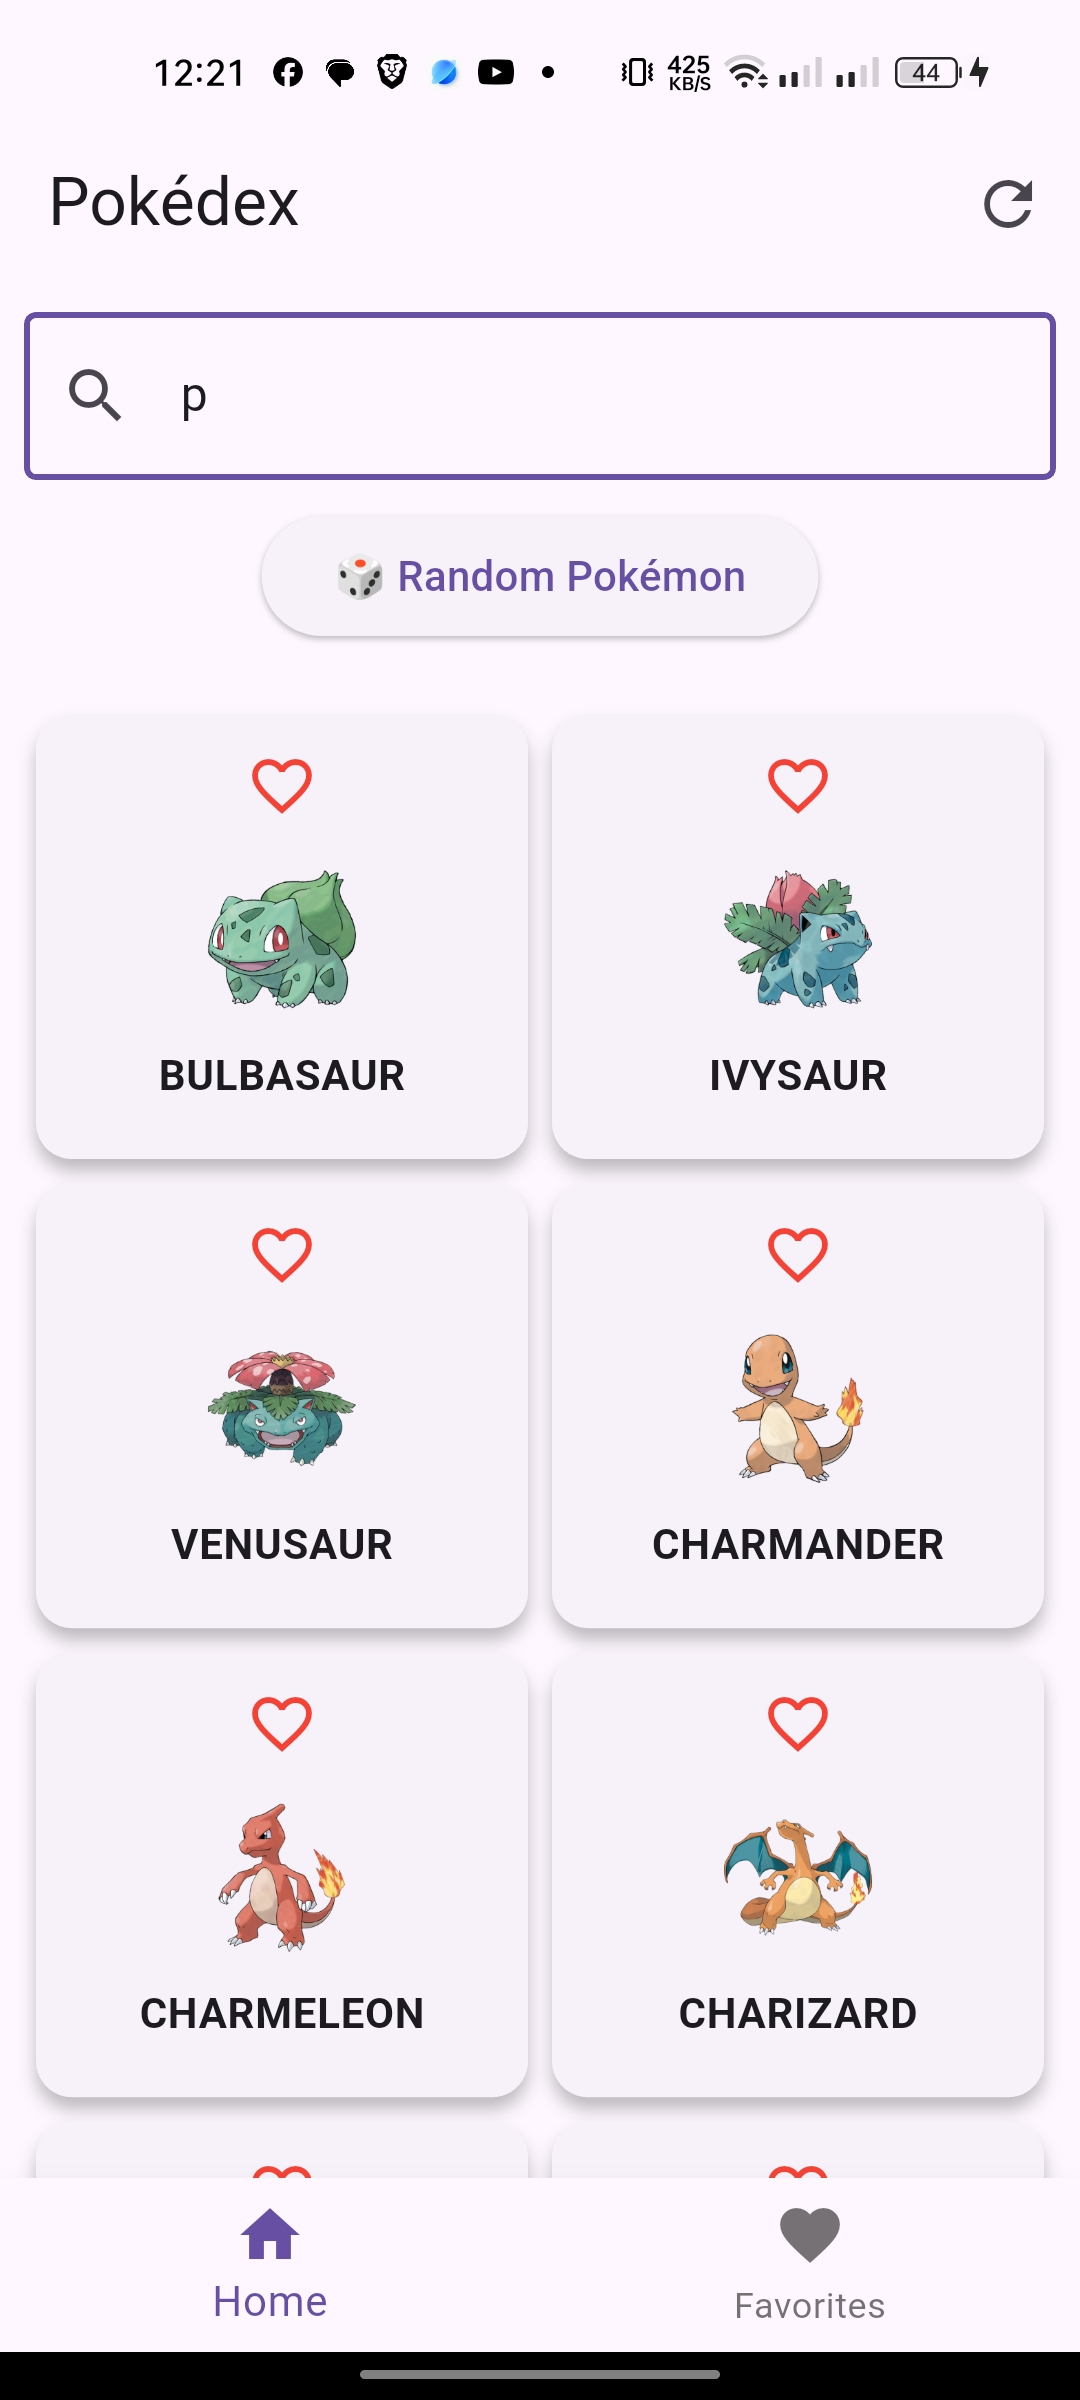
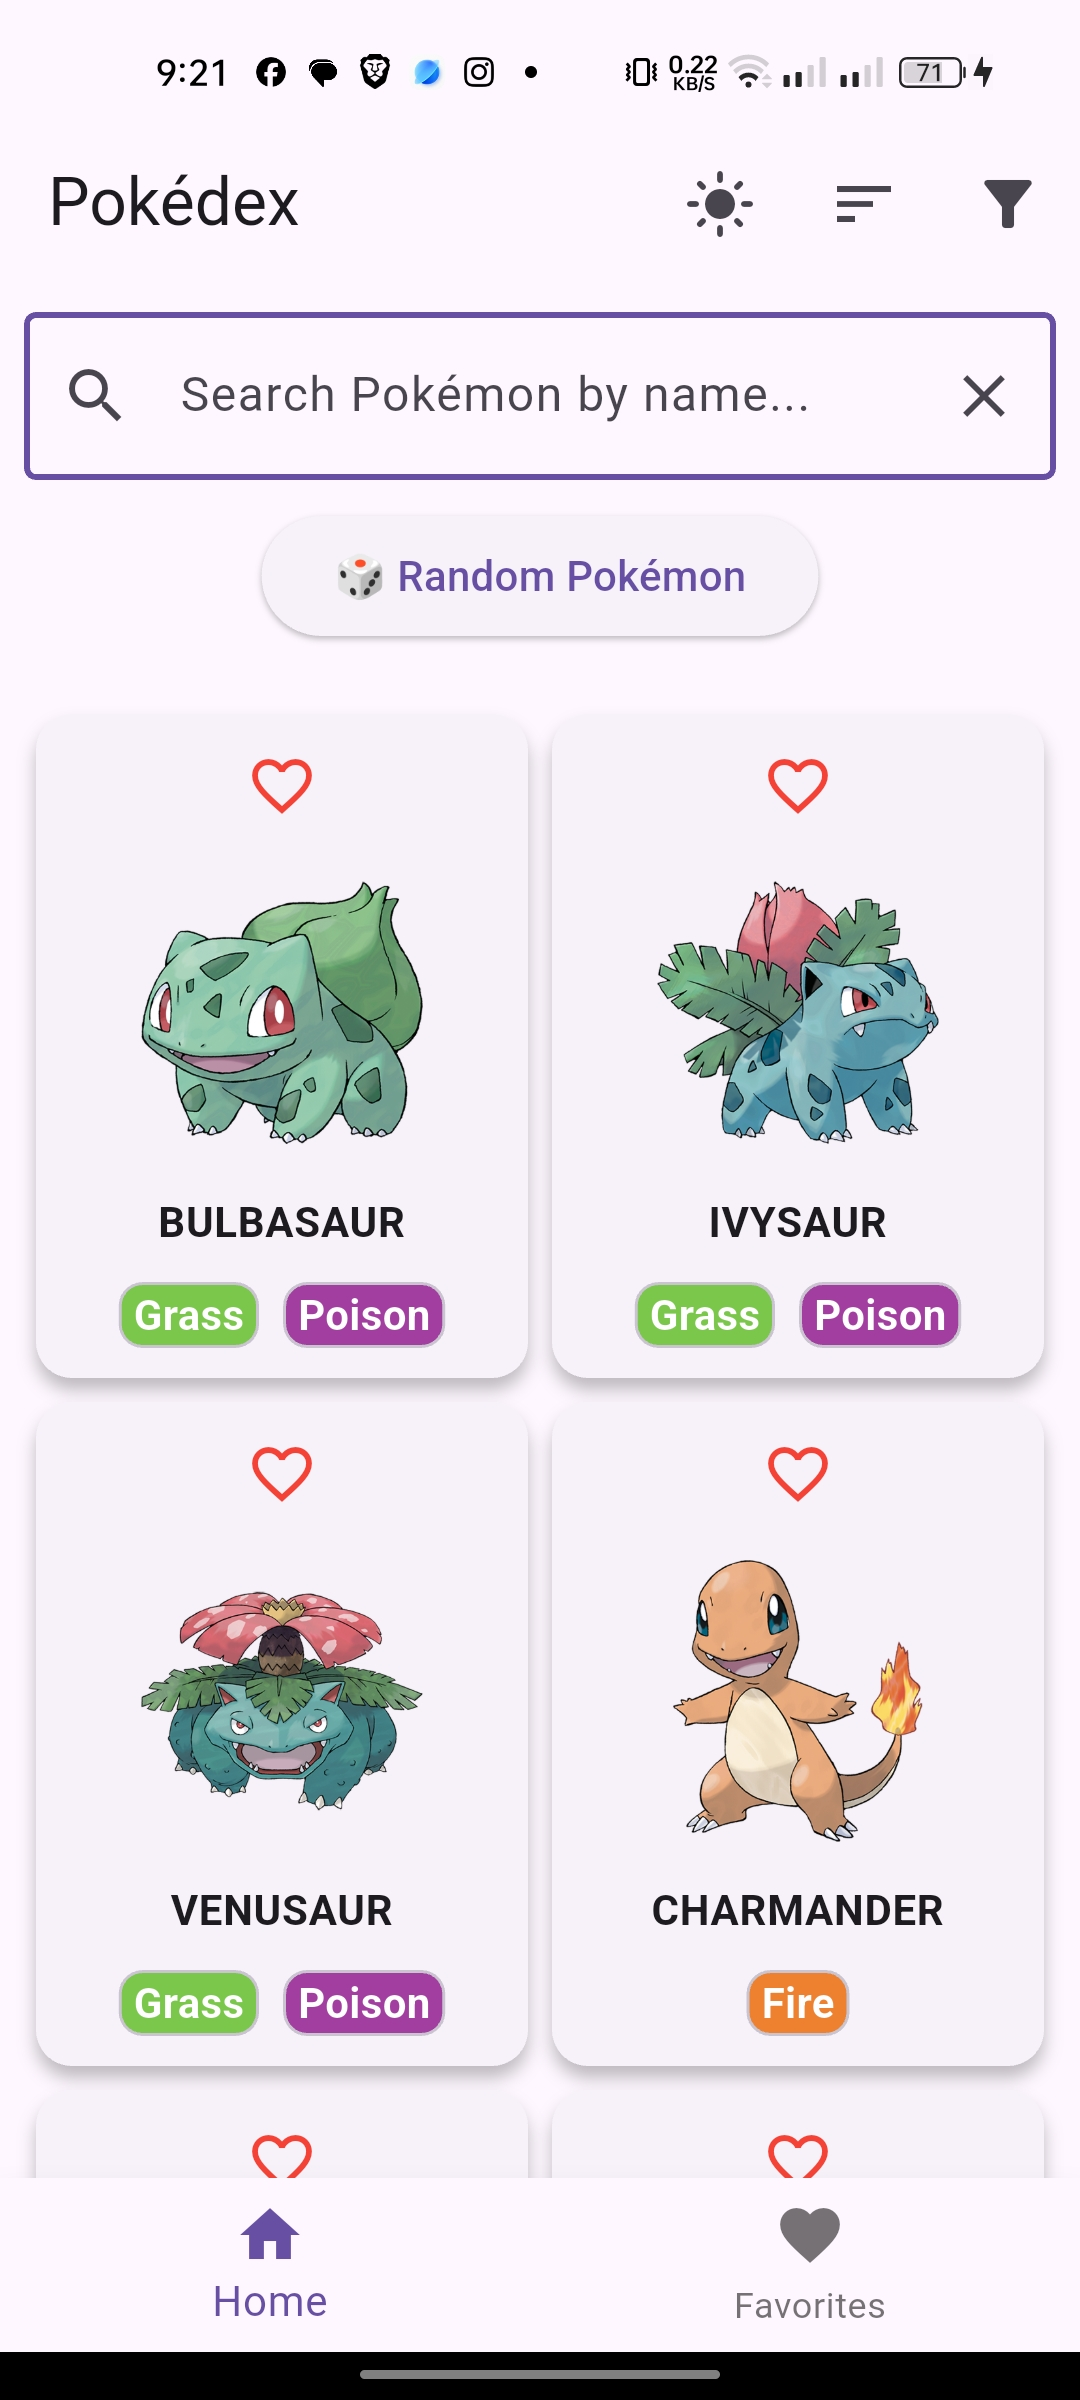
implemented sort and filter,clear search and code cleanup

diff --git a/lib/app/views/home_view.dart b/lib/app/views/home_view.dart
@@ -84,6 +84,11 @@ class _HomeViewState extends State<HomeView> {
                 ],
             icon: const Icon(Icons.sort),
           ),
+          // Filter Types Button
+          IconButton(
+            icon: const Icon(Icons.filter_alt),
+            onPressed: () => _openFilterSheet(),
+          ),
         ],
       ),
       body: ScrollConfiguration(
@@ -112,6 +117,69 @@ class _HomeViewState extends State<HomeView> {
     );
   }
 
+  void _openFilterSheet() {
+    final controller = Get.find<HomeController>();
+
+    showModalBottomSheet(
+      context: context,
+      isScrollControlled: true,
+      shape: RoundedRectangleBorder(borderRadius: BorderRadius.circular(20)),
+      builder: (_) {
+        return Obx(
+          () => Padding(
+            padding: const EdgeInsets.all(5),
+            child: Column(
+              mainAxisSize: MainAxisSize.min,
+              crossAxisAlignment: CrossAxisAlignment.center,
+              children: [
+                const Text(
+                  "Filter by Type",
+                  style: TextStyle(fontSize: 20, fontWeight: FontWeight.bold),
+                ),
+                const SizedBox(height: 16),
+
+                Wrap(
+                  spacing: 8,
+                  runSpacing: 8,
+                  children:
+                      controller.allTypes.map((type) {
+                        final selected = controller.selectedTypeFilter.contains(
+                          type,
+                        );
+                        return FilterChip(
+                          label: Text(type.toUpperCase()),
+                          selected: selected,
+                          selectedColor: PokemonTypeColor.get(type),
+                          backgroundColor: PokemonTypeColor.get(type),
+                          onSelected: (value) {
+                            if (value) {
+                              controller.selectedTypeFilter.add(type);
+                            } else {
+                              controller.selectedTypeFilter.remove(type);
+                            }
+                            controller.applyFilter();
+                          },
+                        );
+                      }).toList(),
+                ),
+
+                const SizedBox(height: 20),
+                ElevatedButton(
+                  onPressed: () {
+                    controller.selectedTypeFilter.clear();
+                    controller.fetchPokemonList();
+                    Get.back();
+                  },
+                  child: const Text("Clear Filters"),
+                ),
+              ],
+            ),
+          ),
+        );
+      },
+    );
+  }
+
   Column _buildMainContent() {
     return Column(
       children: [
@@ -119,10 +187,20 @@ class _HomeViewState extends State<HomeView> {
           padding: const EdgeInsets.all(8.0),
           child: TextField(
             controller: searchController,
-            decoration: const InputDecoration(
+            decoration: InputDecoration(
               hintText: "Search Pokémon by name...",
               border: OutlineInputBorder(),
               prefixIcon: Icon(Icons.search),
+              suffixIcon:
+                  searchController.text.isNotEmpty
+                      ? IconButton(
+                        onPressed: () {
+                          searchController.clear();
+                          controller.showSuggestions.value = false;
+                        },
+                        icon: Icon(Icons.close),
+                      )
+                      : SizedBox(),
             ),
             onChanged: (value) {
               controller.searchQuery.value = value;
@@ -133,6 +211,7 @@ class _HomeViewState extends State<HomeView> {
             },
           ),
         ),
+
         // Random button
         ElevatedButton(
           onPressed: () => controller.getMultipleRandomPokemon(20),

diff --git a/lib/app/controller/home_controller.dart b/lib/app/controller/home_controller.dart
@@ -23,6 +23,30 @@ class HomeController extends GetxController {
   bool hasMore = true;
   var showSuggestions = false.obs;
   var sortType = SortType.lowestNumber.obs;
+  List<PokemonDetail> pokemonListBackup = [];
+  final List<String> allTypes = [
+    "normal",
+    "fire",
+    "water",
+    "grass",
+    "electric",
+    "ice",
+    "fighting",
+    "poison",
+    "ground",
+    "flying",
+    "psychic",
+    "bug",
+    "rock",
+    "ghost",
+    "dragon",
+    "dark",
+    "steel",
+    "fairy",
+  ];
+
+  /// Selected Pokémon types for filtering
+  var selectedTypeFilter = <String>[].obs;
 
   @override
   void onInit() {
@@ -31,7 +55,6 @@ class HomeController extends GetxController {
     fetchAllPokemonNames(); // load names first
     // Debounce search input (delay 300 ms)
     debounce(searchQuery, (_) {
-      // fetchPokemons();
       showSuggestions.value = true;
       updateSuggestions(searchQuery.value);
     }, time: const Duration(milliseconds: 300));
@@ -61,20 +84,45 @@ class HomeController extends GetxController {
     pokemonList.refresh(); // 🔥 important
   }
 
+  void clearFilter() {
+    selectedTypeFilter.clear();
+    fetchPokemonList();
+  }
+
+  void applyFilter() {
+    // First apply search if exists
+    List<PokemonDetail> result = List.from(
+      pokemonListBackup,
+    ); // stored original list
+
+    if (searchQuery.value.isNotEmpty) {
+      result =
+          result
+              .where((p) => p.name.contains(searchQuery.value.toLowerCase()))
+              .toList();
+    }
+
+    // Apply type filter if selected
+    if (selectedTypeFilter.isNotEmpty) {
+      result =
+          result.where((pokemon) {
+            final pokemonTypes = pokemon.types.map((t) => t.name).toList();
+            return selectedTypeFilter.every(
+              (selected) => pokemonTypes.contains(selected),
+            );
+          }).toList();
+    }
+
+    pokemonList.assignAll(result);
+    hasMore = false;
+    sortPokemon(); // Ensure sorting still active
+  }
+
   // Load all Pokémon names for suggestions
   void fetchAllPokemonNames() async {
     try {
       final response = await _repository.getPokemonList(limit: 1500, offset: 0);
       allPokemonNames.value = response.results.map((e) => e.name).toList();
-    } catch (e) {
-      errorMessage.value = "something went wrong";
-    }
-  }
-
-  void fetchPokemons() async {
-    try {
-      final response = await _repository.getPokemonList(limit: 50, offset: 0);
-      searchList.value = response.results;
     } catch (e) {
       errorMessage.value = "something went wrong";
     }
@@ -140,6 +188,7 @@ class HomeController extends GetxController {
     for (var item in response.results) {
       final detail = await _repository.getPokemonDetail(item.name);
       pokemonList.add(detail);
+      pokemonListBackup = List.from(pokemonList);
     }
   }
 
@@ -160,6 +209,7 @@ class HomeController extends GetxController {
           response.results.first.name,
         );
         pokemonList.add(detail);
+        pokemonListBackup = List.from(pokemonList);
       }
 
       hasMore = false; // disable load more during search
@@ -180,6 +230,7 @@ class HomeController extends GetxController {
         int id = random.nextInt(1025) + 1;
         final detail = await _repository.getPokemonDetail(id.toString());
         pokemonList.add(detail);
+        pokemonListBackup = List.from(pokemonList);
       }
     } finally {
       isLoading(false);

diff --git a/lib/app/views/detail_view.dart b/lib/app/views/detail_view.dart
@@ -11,7 +11,17 @@ class DetailView extends StatelessWidget {
     final DetailController controller = Get.find();
 
     return Scaffold(
-      appBar: AppBar(title: const Text('Pokémon Detail')),
+      appBar: AppBar(
+        title: Obx(() {
+          final detail = controller.pokemonDetail.value;
+          if (detail == null) {
+            return Text("Loading...");
+          }
+          return Text(
+            '#${detail.id} ${detail.name.capitalizeFirst ?? detail.name}',
+          );
+        }),
+      ),
       body: Obx(() {
         if (controller.isLoading.value) {
           return const Center(child: CircularProgressIndicator());
@@ -30,17 +40,6 @@ class DetailView extends StatelessWidget {
           child: Column(
             crossAxisAlignment: CrossAxisAlignment.start,
             children: [
-              /// Pokémon Title
-              Text(
-                '#${detail.id} ${detail.name.capitalizeFirst}',
-                style: const TextStyle(
-                  fontSize: 24,
-                  fontWeight: FontWeight.bold,
-                ),
-              ),
-
-              const SizedBox(height: 16),
-
               /// Pokémon Image
               Center(
                 child: Image.network(

diff --git a/lib/app/views/fav_view.dart b/lib/app/views/fav_view.dart
@@ -20,7 +20,7 @@ class FavoritesView extends StatelessWidget {
           padding: const EdgeInsets.all(10),
           gridDelegate: const SliverGridDelegateWithFixedCrossAxisCount(
             crossAxisCount: 2,
-            childAspectRatio: 0.9,
+            childAspectRatio: 1.1,
           ),
           itemCount: favController.favoriteList.length,
           itemBuilder: (_, index) {

diff --git a/README.md b/README.md
@@ -1,4 +1,4 @@
-# 🧩 Pokédex Flutter App
+# <img src="assets/icons/ball.png" width="24" height="24" /> Pokédex Flutter App
 
 A beautifully designed Flutter application that displays detailed Pokémon information using the PokéAPI. Users can browse Pokémon, view stats, filter by type, and enjoy a smooth, responsive UI across Android and iOS devices.
 
@@ -15,16 +15,23 @@ A beautifully designed Flutter application that displays detailed Pokémon infor
 * 📱 **Responsive layout** for all screen sizes
 * 🌙 **Dark theme support**
 * 📦 **Hive** Local storage for Favorites
-
+* 📶 **Sort**  by ascending/descending id/name
+* 📦 **Filter** by type (Fire, Water, Grass etc.)
 ---
 
 ## 📸 Screenshots
 
+**Mobile** 
+
+Home            |  Favourite | Details
+:-------------------------:|:-------------------------:|:-------------------------:
+![screenshot](assets/screenshots/home_windows.png) |  ![screenshot](assets/screenshots/favourite_windows.png) | ![screenshot](assets/screenshots/details_windows.png)
+
+**Windows** 
+
 Home            |  Favourite | Details
 :-------------------------:|:-------------------------:|:-------------------------:
 ![screenshot](assets/screenshots/home.jpg) |  ![screenshot](assets/screenshots/favourite.jpg) | ![screenshot](assets/screenshots/details.jpg)
-
-
 
 ---
 
